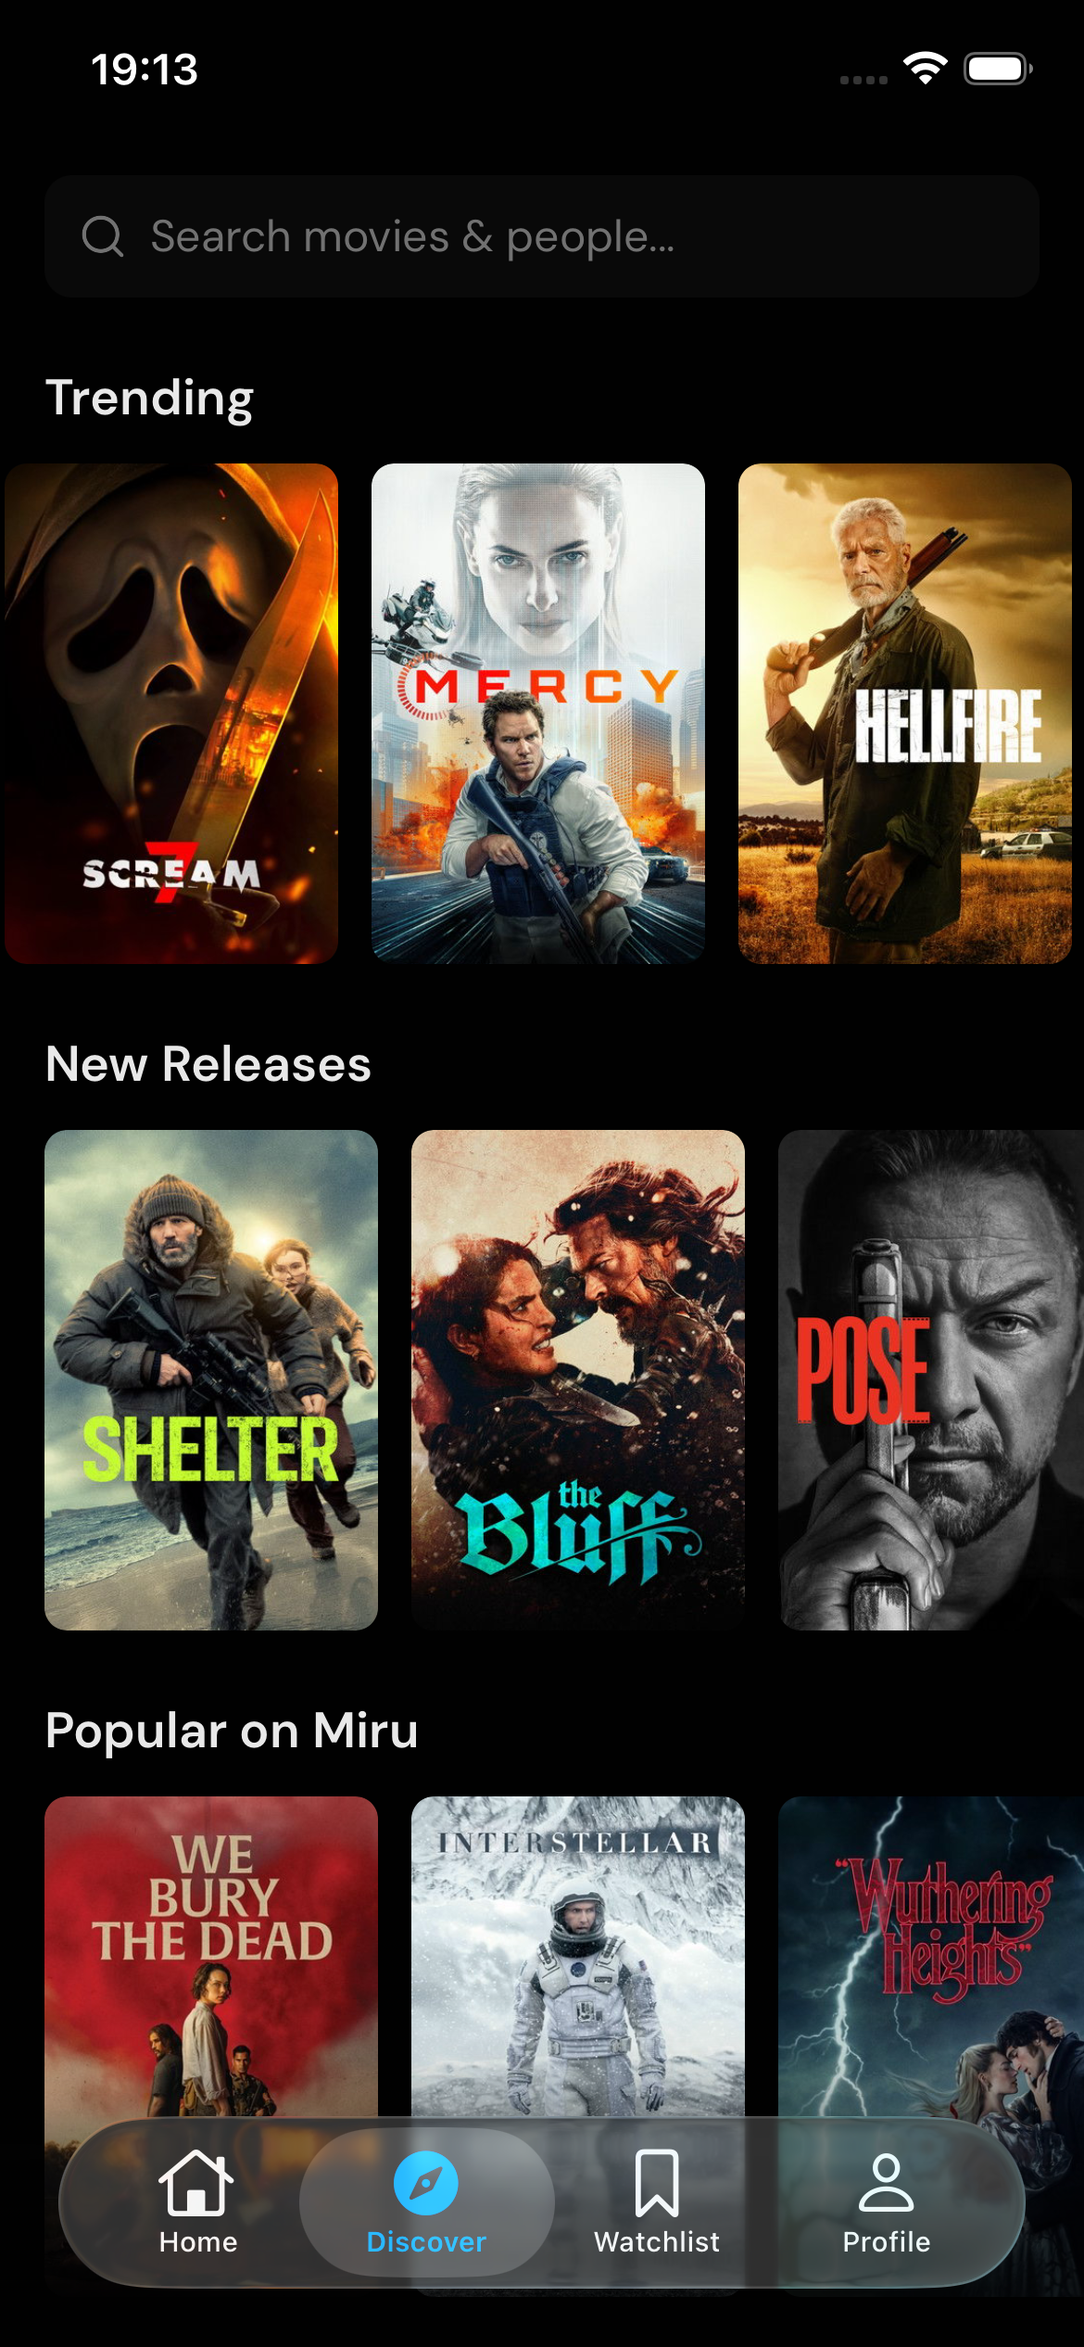
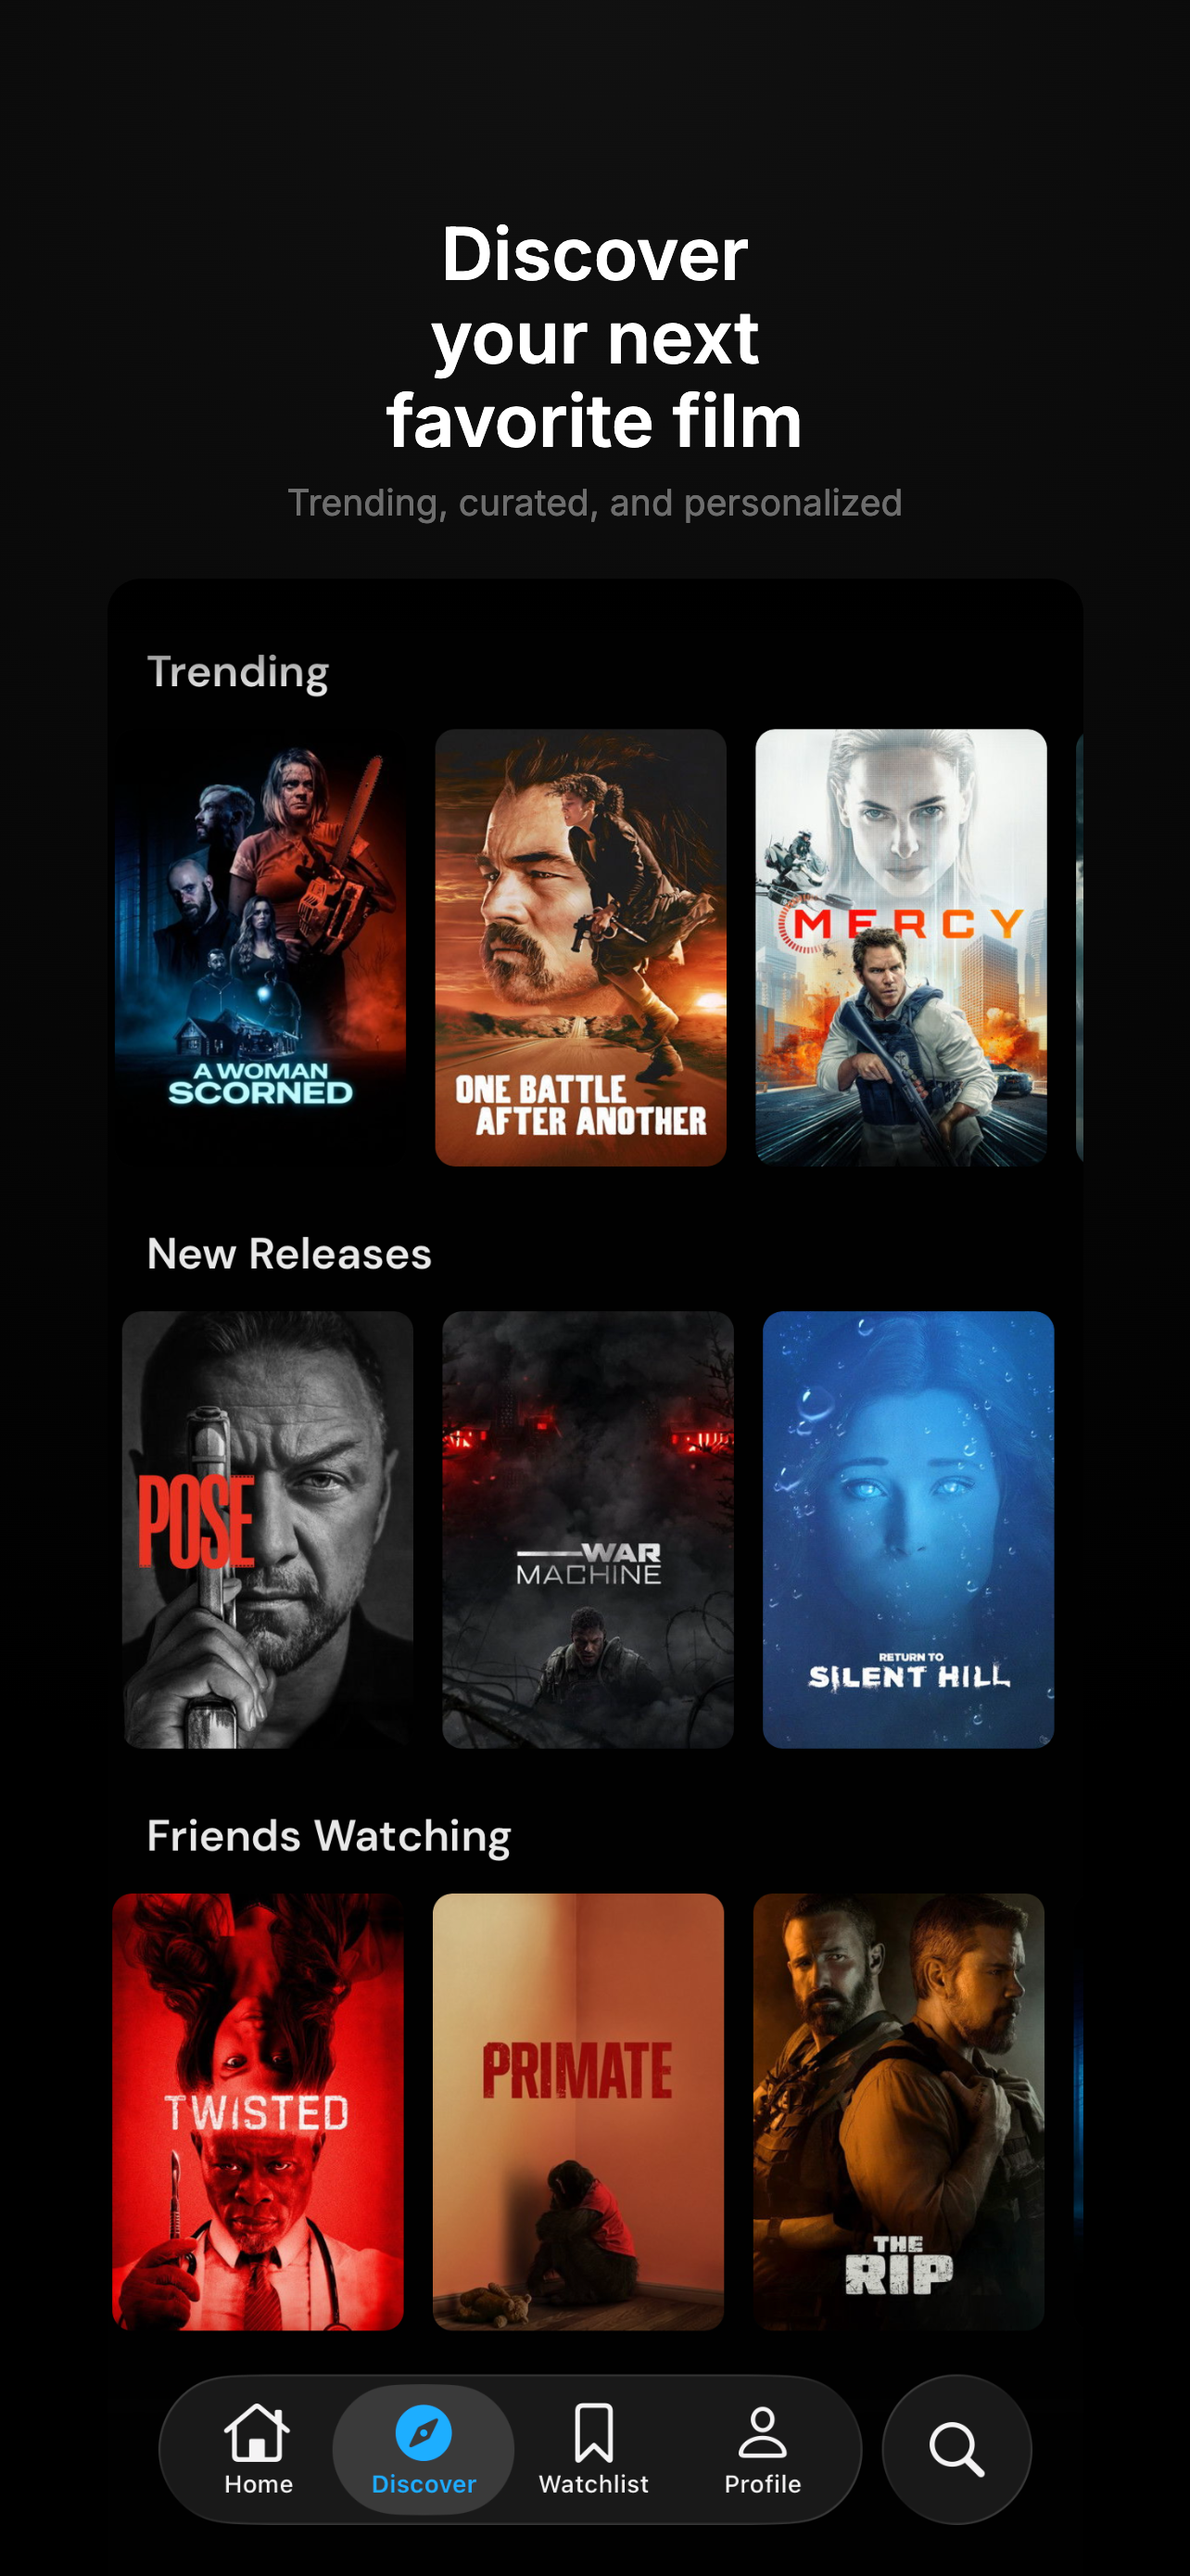
Use screenshots from the app store (#711)

diff --git a/README.md b/README.md
@@ -19,6 +19,8 @@
   &nbsp;&nbsp;
   <img src="apps/web/public/screenshots/watchlist.png" width="180" alt="Watchlist — your saved movies" />
   &nbsp;&nbsp;
+  <img src="apps/web/public/screenshots/movie-detail.png" width="180" alt="Movie detail — ratings, trailers, where to stream" />
+  &nbsp;&nbsp;
   <img src="apps/web/public/screenshots/profile.png" width="180" alt="Profile — stats, followers, watched" />
 </p>
 
